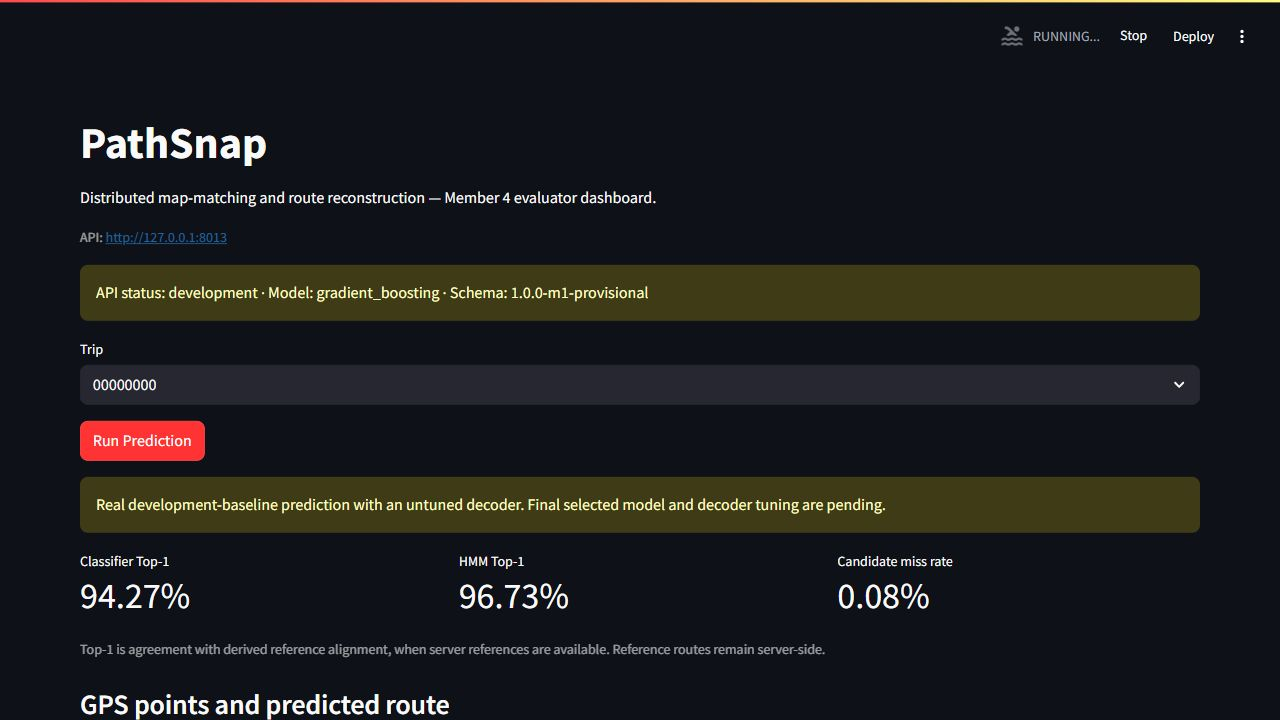
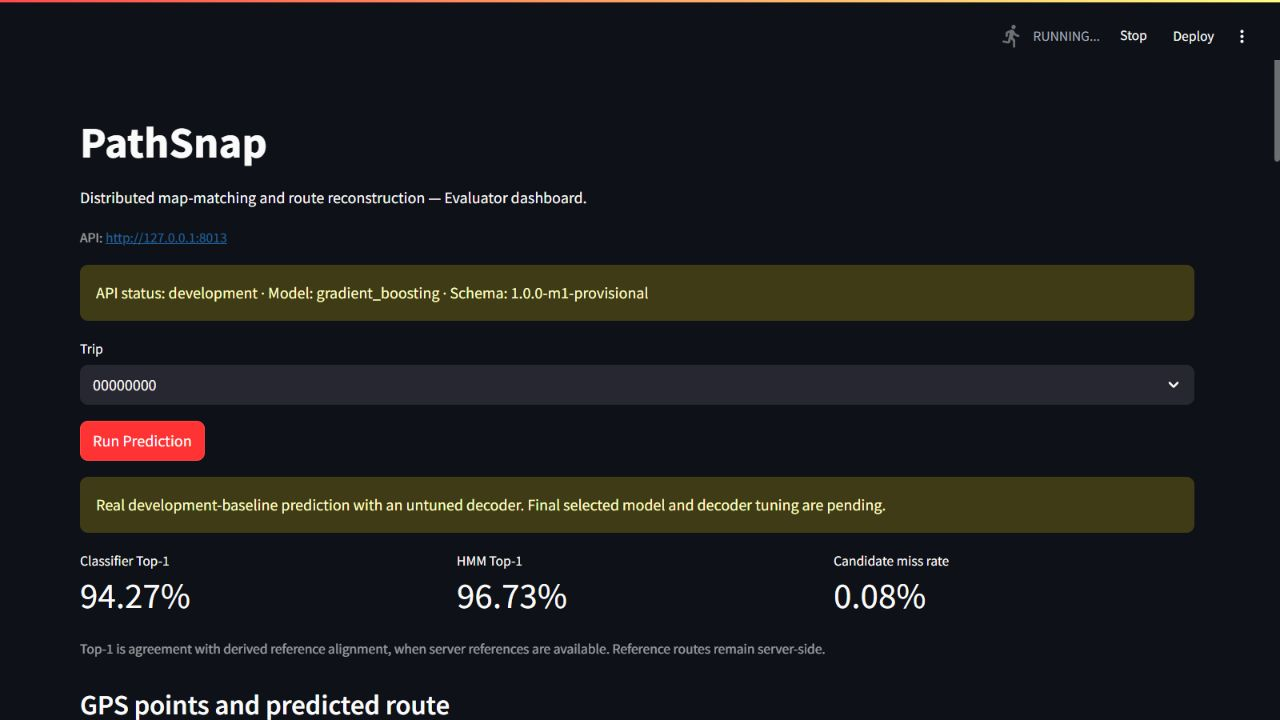
B: Verify clean download parity and finish full-trip dashboard presentation

diff --git a/ui/app.py b/ui/app.py
@@ -37,6 +37,8 @@ def post_json(path: str, payload: dict[str, Any]) -> Any:
 
 def render_route_map(prediction: dict[str, Any]) -> None:
     gps_points = prediction.get("gps_coordinates", [])
+    st.caption(f"Raw observations: {prediction.get('n_obs',0)}; renderable GPS coordinates: {len(gps_points)}. "
+               'Orange: GPS; blue: HMM; green: classifier. Layer controls are on the map.')
     route_groups = [
         ("HMM route", prediction.get("route_hmm") or [], "blue"),
         (
@@ -56,6 +58,9 @@ def render_route_map(prediction: dict[str, Any]) -> None:
         zoom = 2
 
     route_map = folium.Map(location=center, zoom_start=zoom)
+    if gps_points:
+        route_map.fit_bounds([[min(p['latitude'] for p in gps_points),min(p['longitude'] for p in gps_points)],
+                              [max(p['latitude'] for p in gps_points),max(p['longitude'] for p in gps_points)]])
     gps_layer=folium.FeatureGroup(name='GPS observations').add_to(route_map)
     stride=max(1,(len(gps_points)+1999)//2000)
     if stride>1:
@@ -81,9 +86,6 @@ def render_route_map(prediction: dict[str, Any]) -> None:
                     coordinates, color=color, weight=4, tooltip=label
                 ).add_to(layer)
     folium.LayerControl().add_to(route_map)
-    route_map.get_root().html.add_child(folium.Element('<div style="position:fixed;bottom:25px;left:20px;background:white;padding:10px;z-index:9999">'
-        '<b>PathSnap layers</b><br><span style="color:orange">●</span> GPS observations<br>'
-        '<span style="color:blue">━</span> HMM route<br><span style="color:green">━</span> Classifier route</div>'))
 
     st_folium(route_map, use_container_width=True, height=500)
     if not gps_points and not any(group[1] for group in route_groups):
@@ -95,7 +97,7 @@ def main() -> None:
     st.title("PathSnap")
     st.write(
         "Distributed map-matching and route reconstruction — "
-        "Member 4 evaluator dashboard."
+        "Evaluator dashboard."
     )
     st.caption(f"API: {api_base_url()}")
 
@@ -157,7 +159,7 @@ def main() -> None:
     render_route_map(prediction)
     if not prediction.get("route_classifier"):
         st.caption(
-            "Classifier-only route layer: awaiting Member 2 classification output."
+            "No classifier-only route geometry is available for this trip."
         )
 
     st.subheader("Metrics and diagnostics")

diff --git a/src/hmm/tune.py b/src/hmm/tune.py
@@ -110,7 +110,14 @@ def tune(raw_root,processed,scores_path,manifest_path,model_card,output):
         n_trusted=int(trusted.sum())
         for trial,cfg in enumerate(configs):
             started=perf_counter()
-            hmm,base=decode_tables(obs,cand,p,graph,cfg)
+            try:
+                hmm,base=decode_tables(obs,cand,p,graph,cfg)
+            except Exception as exc:
+                pd.DataFrame(rows).to_csv(out/'per_trip.csv',index=False)
+                failure=dict(status='aborted',trip_id=tid,trial=trial,config=asdict(cfg),
+                             error_type=type(exc).__name__,error=str(exc))
+                (out/'failure.json').write_text(json.dumps(failure,indent=2),encoding='utf8')
+                raise
             for name,result in [('hmm',hmm),('classifier',base)]:
                 metrics=evaluate_trip(raw/tid,obs,result,graph,data,alignment=aligned)
                 rows.append(dict(trial=trial,trip_id=tid,method=name,**metrics,
